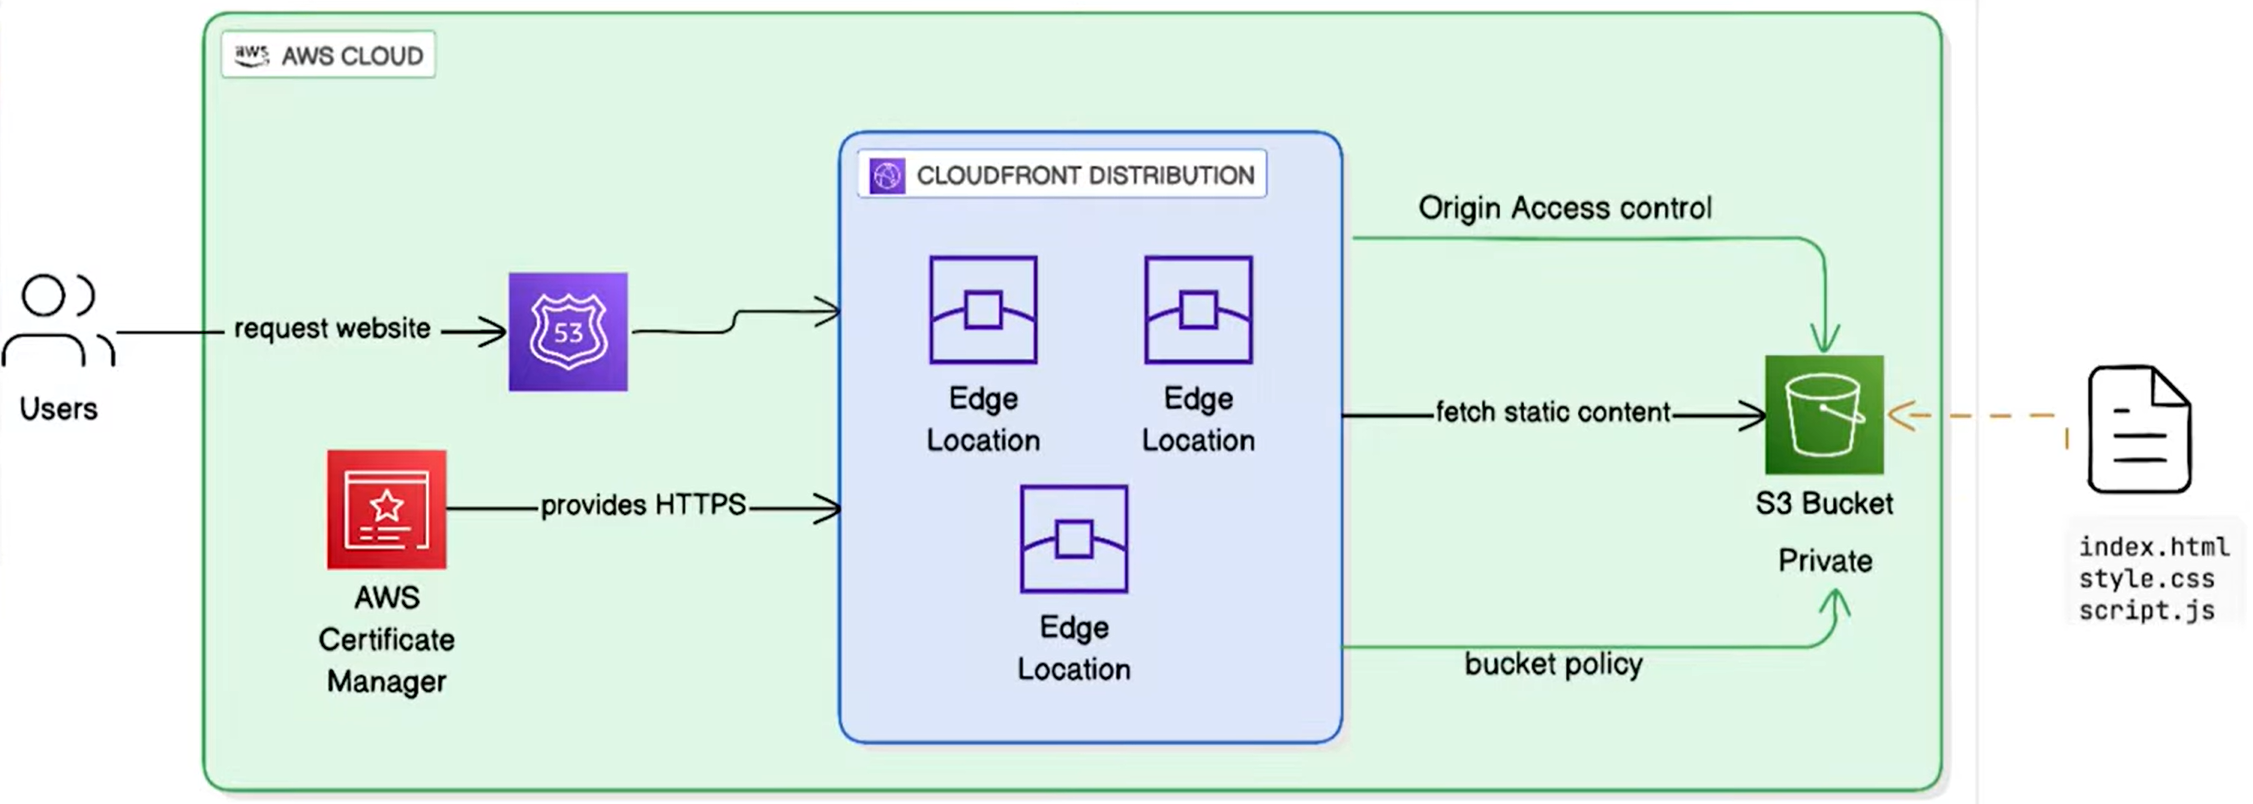
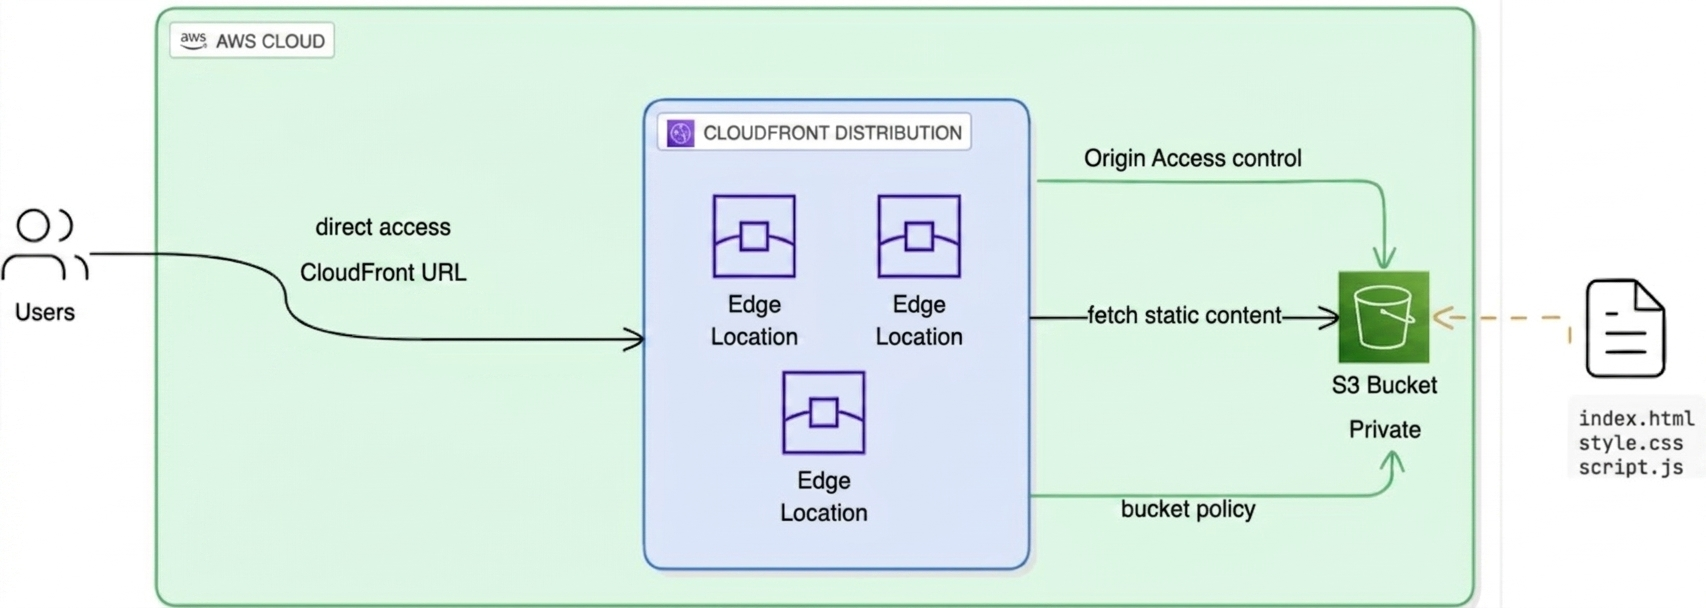
Updated documentations for main folder and cloudfront-static-web-app

Changed region(s): [[0.0, 0.0, 0.9941, 1.0], [0.9009, 0.6562, 0.9941, 0.7812]]

diff --git a/README.md b/README.md
@@ -26,6 +26,16 @@ A layered, multi-VPC architecture using reusable Terraform modules. Designed aro
 
 ---
 
+### 3. [`cloudfront-static-web-app/`](./cloudfront-static-web-app)
+
+A secure, globally distributed static web app hosted on a private S3 bucket and served via CloudFront CDN.
+
+Uses Origin Access Control (OAC) with SigV4 signing to ensure the S3 bucket is never exposed directly to the public internet — all traffic routes through CloudFront with forced HTTPS redirection. Terraform state is stored remotely in a separate, versioned, AES-256-encrypted S3 bucket. A dynamic asset uploader handles MIME-type mapping and file hashing for cache invalidation across all static file types.
+
+→ [Read the full README](./cloudfront-static-web-app/README.md)
+
+---
+
 ## 🔁 CI/CD Architecture
 
 The root `.gitlab-ci.yml` acts as a **parent pipeline** that selectively triggers child pipelines in each project directory based on which files changed.
@@ -35,8 +45,9 @@ push to repo
     │
     ▼
 Root pipeline (.gitlab-ci.yml)
-    ├── simple-web-server/** changed?  → trigger simple-web-server/.gitlab-ci.yml
-    └── multi-vpc-architecture/** changed?  → trigger multi-vpc-architecture/.gitlab-ci.yml
+    ├── simple-web-server/** changed?       → trigger simple-web-server/.gitlab-ci.yml
+    ├── multi-vpc-architecture/** changed?  → trigger multi-vpc-architecture/.gitlab-ci.yml
+    └── cloudfront-s3-static-web/** changed? → trigger cloudfront-s3-static-web/.gitlab-ci.yml
 ```
 
 Each child pipeline runs independently with its own stages and state. The `strategy: depend` setting means the parent pipeline's status reflects the outcome of whichever child pipelines were triggered — a failing child marks the parent as failed.

diff --git a/cloudfront-static-web-app/README.md b/cloudfront-static-web-app/README.md
@@ -6,6 +6,10 @@ This project demonstrates the use of **Infrastructure as Code (IaC)** to provisi
 
 Remotely managing your state storage via an S3 backend ensures state file consistency and reliability across your development environment without risking local state corruption.
 
+### Architecture Design
+![Architecture Design](screenshots/architecture.png)
+
+
 ---
 
 ## 🏗️ Architecture & Resources